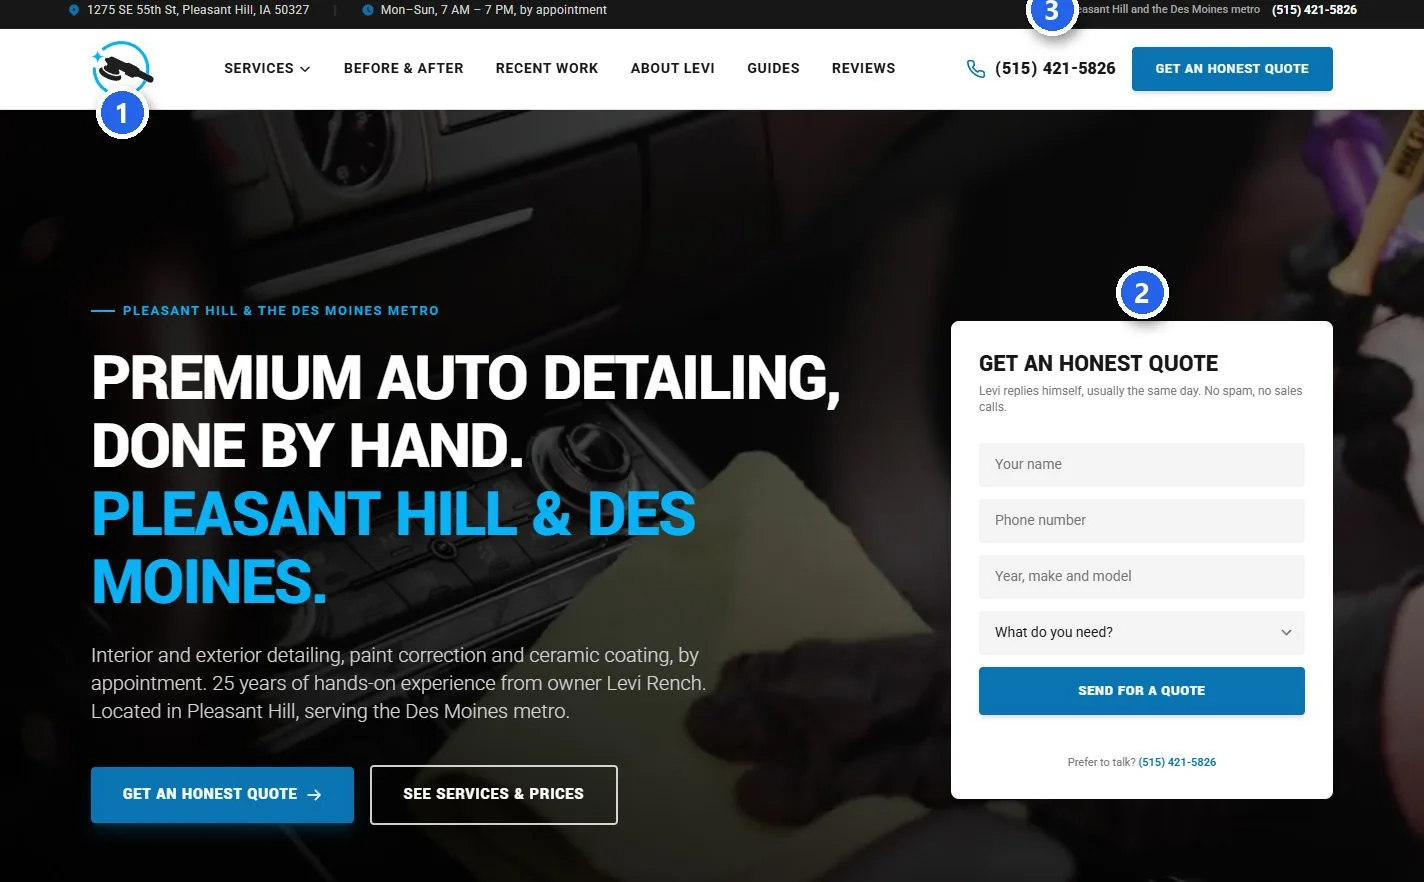
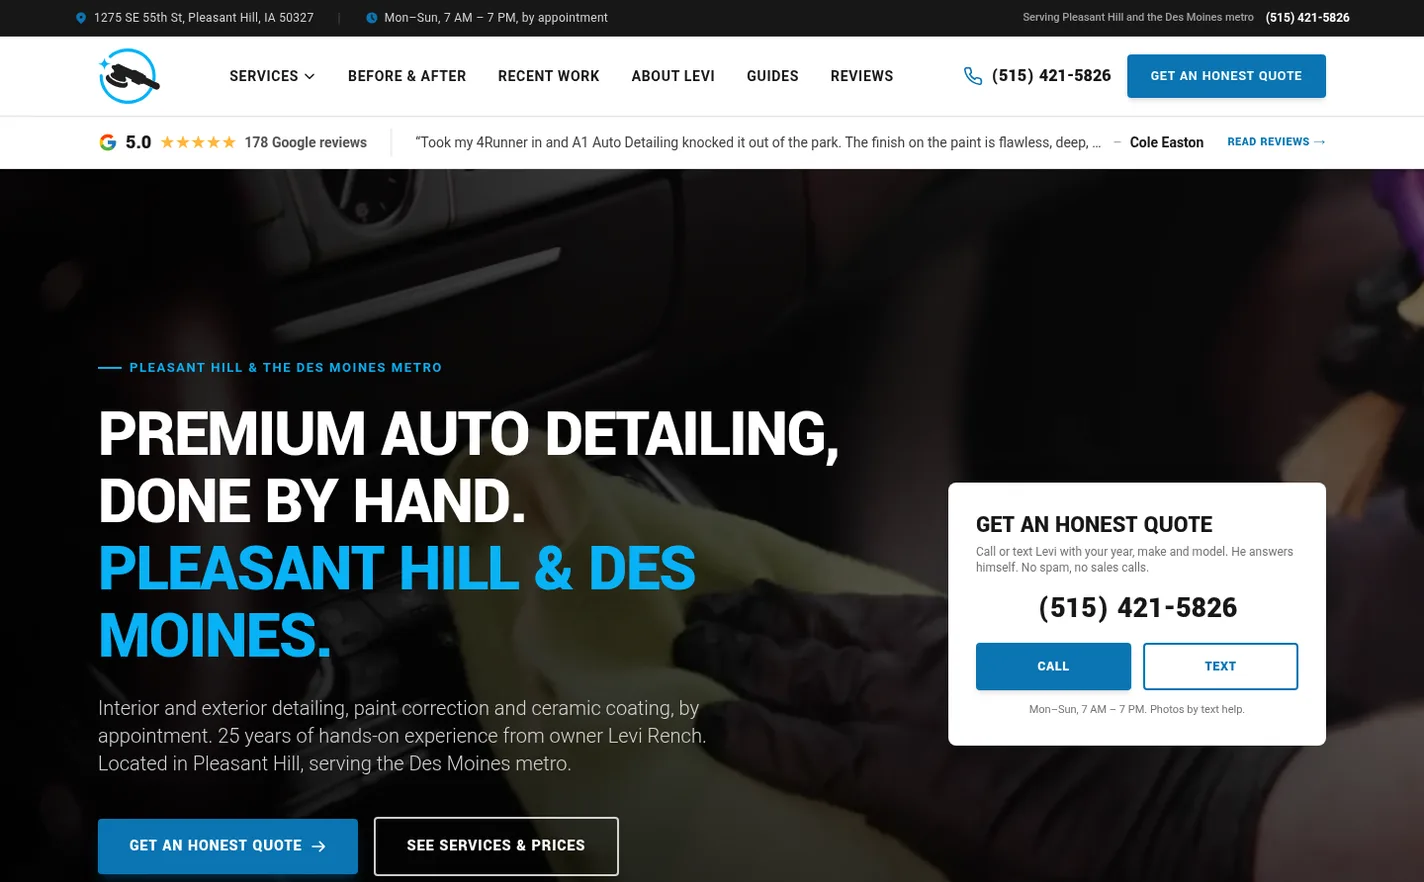
Give the A-1 case study room and use clean before/after shots
- Split the dense dark card into separate beats on the page background:
  before/after slider on its own, problem/fix in two short lines, three
  numbers on a divided row, Levi's quote with the CTA, then the strip.
- after-hero.webp is a fresh capture of the live A-1 homepage; the old-site
  shot has the numbered callouts removed (old logo restored from the clean
  logo comparison image), so neither image carries labels.

diff --git a/components/work/FeaturedWork.tsx b/components/work/FeaturedWork.tsx
@@ -2,7 +2,7 @@
 
 import { useState } from 'react';
 import Link from 'next/link';
-import { ArrowRight, ArrowUpRight, Quote } from 'lucide-react';
+import { ArrowRight, ArrowUpRight } from 'lucide-react';
 import { WORK_PROJECTS } from '@/data/workProjects';
 import { LEVI_QUOTE } from '@/components/common/ClientQuote';
 
@@ -12,22 +12,29 @@ import { LEVI_QUOTE } from '@/components/common/ClientQuote';
 // add a lift percentage or an unverified number here.
 const FEATURED_NAME = 'A-1 Auto Detailing';
 
-const A1_PROBLEM =
-  '25 years in business and a 5.0 Google rating from 178 reviews, but the old site hid nearly all of it. The logo was a tiny business card with a phone number printed on it, and a “Service Areas” menu led to dozens of copy-paste town pages Google ignores.';
-
-const A1_SOLUTION =
-  'We rebuilt it from the logo up: 18 pages with real service pages and guides, before-and-after sliders of customer cars, published starting prices, and a quote form right in the hero that Levi answers himself.';
+const A1_STORY = [
+  {
+    label: 'The problem',
+    tone: 'text-rose-600',
+    text: '178 five-star reviews, buried. A business-card logo. Dozens of copy-paste town pages Google ignored.',
+  },
+  {
+    label: 'What we built',
+    tone: 'text-blue-600',
+    text: 'A custom 18-page site with real service pages, before-and-after photos, and a quote form right up top.',
+  },
+];
 
 const A1_RESULTS = [
-  { value: '178', unit: 'five-star reviews', label: 'now shown where customers decide, at a 5.0 rating' },
-  { value: '~56', unit: 'old URLs', label: '301-redirected, so no search traffic was lost' },
-  { value: '0.3–0.8s', unit: 'page loads', label: 'measured on the finished site, so phone visitors don’t bounce' },
+  { value: '178', label: 'five-star reviews now front and center' },
+  { value: '~56', label: 'old URLs redirected, no search traffic lost' },
+  { value: '0.3–0.8s', label: 'page loads on phones' },
 ];
 
 function BeforeAfter() {
   const [pos, setPos] = useState(50);
   return (
-    <div className="relative aspect-[1424/882] w-full overflow-hidden rounded-[18px] sm:rounded-[22px] bg-neutral-900 select-none">
+    <div className="relative aspect-[1424/882] w-full overflow-hidden rounded-[20px] sm:rounded-[28px] bg-neutral-900 shadow-2xl shadow-neutral-900/15 ring-1 ring-neutral-200 select-none">
       {/* eslint-disable-next-line @next/next/no-img-element */}
       <img
         src="/images/case-studies/a1/after-hero.webp"
@@ -45,14 +52,14 @@ function BeforeAfter() {
         style={{ clipPath: `inset(0 ${100 - pos}% 0 0)` }}
         className="absolute inset-0 w-full h-full object-cover"
       />
-      <span className="absolute top-3 left-3 px-2.5 py-1 rounded-full bg-neutral-950/80 text-white text-[11px] font-bold tracking-wider uppercase">
-        Old site
+      <span className="absolute bottom-3 left-3 sm:bottom-5 sm:left-5 px-3 py-1.5 rounded-full bg-neutral-950/85 text-white text-[11px] sm:text-xs font-bold tracking-wider uppercase">
+        Before
       </span>
-      <span className="absolute top-3 right-3 px-2.5 py-1 rounded-full bg-blue-600 text-white text-[11px] font-bold tracking-wider uppercase">
-        Our rebuild
+      <span className="absolute bottom-3 right-3 sm:bottom-5 sm:right-5 px-3 py-1.5 rounded-full bg-blue-600 text-white text-[11px] sm:text-xs font-bold tracking-wider uppercase">
+        After
       </span>
       <div aria-hidden="true" className="absolute inset-y-0 w-0.5 bg-white pointer-events-none" style={{ left: `${pos}%` }}>
-        <span className="absolute top-1/2 left-1/2 -translate-x-1/2 -translate-y-1/2 w-10 h-10 rounded-full bg-white shadow-lg flex items-center justify-center text-neutral-900 text-sm font-bold">
+        <span className="absolute top-1/2 left-1/2 -translate-x-1/2 -translate-y-1/2 w-11 h-11 rounded-full bg-white shadow-lg flex items-center justify-center text-neutral-900 text-sm font-bold">
           ⇆
         </span>
       </div>
@@ -71,113 +78,88 @@ function BeforeAfter() {
 }
 
 /**
- * Homepage proof section. Shows the work as a client outcome (story, owner,
- * facts) instead of a gallery of homepages, then the rest of the portfolio as
- * a compact strip.
+ * Homepage proof section, one beat at a time: the before/after, the story in
+ * two lines, three numbers, the owner's words with the CTA, then the rest of
+ * the portfolio as a compact strip.
  */
 export function FeaturedWork() {
-  const featured = WORK_PROJECTS.find((p) => p.name === FEATURED_NAME);
   const more = WORK_PROJECTS.filter((p) => p.name !== FEATURED_NAME).slice(0, 5);
 
   return (
     <section
       aria-labelledby="featured-work-heading"
       data-track-location="featured_work"
-      className="w-full py-20 sm:py-28 px-4 sm:px-8 lg:px-14 xl:px-20"
+      className="w-full py-24 sm:py-32 px-4 sm:px-8 lg:px-14 xl:px-20"
     >
-      <div className="w-full max-w-[1400px] mx-auto">
-        <div className="flex flex-col lg:flex-row lg:items-end justify-between gap-5 mb-10 sm:mb-12">
-          <div className="max-w-3xl">
-            <p className="text-xs sm:text-sm font-bold tracking-[0.22em] text-[#2563eb] uppercase mb-3">Client Results</p>
-            <h2
-              id="featured-work-heading"
-              className="text-3xl sm:text-5xl lg:text-6xl font-extrabold font-display tracking-tight text-neutral-950 leading-[1.08]"
-            >
-              Real Iowa Business. Real Rebuild.
-            </h2>
-          </div>
-          <p className="max-w-md text-base sm:text-lg text-neutral-600 leading-relaxed">
-            We measure a website by the calls and quote requests it brings in, not by how it looks in a portfolio.
+      <div className="w-full max-w-[1180px] mx-auto">
+        {/* 1. Header */}
+        <div className="text-center max-w-2xl mx-auto">
+          <p className="text-xs sm:text-sm font-bold tracking-[0.22em] text-[#2563eb] uppercase">Client Results</p>
+          <h2
+            id="featured-work-heading"
+            className="mt-4 text-3xl sm:text-5xl lg:text-6xl font-extrabold font-display tracking-tight text-neutral-950 leading-[1.08] text-balance"
+          >
+            A-1 Auto Detailing, Rebuilt
+          </h2>
+          <p className="mt-5 text-base sm:text-lg text-neutral-600 leading-relaxed">
+            25 years in Pleasant Hill, and a website that finally shows it.
           </p>
         </div>
 
-        {/* Case study card */}
-        <article className="rounded-[28px] sm:rounded-[36px] bg-neutral-950 text-white overflow-hidden">
-          <header className="flex flex-wrap items-center justify-between gap-4 px-6 sm:px-10 pt-7 sm:pt-9">
-            <div className="flex items-center gap-4">
-              <span className="w-12 h-12 sm:w-14 sm:h-14 rounded-2xl bg-white flex items-center justify-center shrink-0">
-                {/* eslint-disable-next-line @next/next/no-img-element */}
-                <img src="/logos/iowa/a1-auto-detailing.png" alt="" className="w-9 h-9 sm:w-10 sm:h-10 object-contain" />
-              </span>
-              <div>
-                <h3 className="text-xl sm:text-2xl font-bold font-display tracking-tight">A-1 Auto Detailing</h3>
-                <p className="text-sm text-neutral-400">
-                  Pleasant Hill, Iowa · Website rebuild{featured ? ` · ${featured.date}` : ''}
-                </p>
-              </div>
-            </div>
-            <Link
-              href={LEVI_QUOTE.href}
-              className="inline-flex items-center gap-2 text-sm font-semibold text-blue-300 hover:text-white transition-colors"
-            >
-              Read the full case study <ArrowRight size={15} />
-            </Link>
-          </header>
+        {/* 2. The before/after, on its own */}
+        <div className="mt-12 sm:mt-16">
+          <BeforeAfter />
+          <p className="mt-4 text-center text-sm text-neutral-500">Drag to compare</p>
+        </div>
 
-          <div className="grid grid-cols-1 lg:grid-cols-12 gap-8 lg:gap-12 px-6 sm:px-10 pt-7 sm:pt-9">
-            <div className="lg:col-span-7">
-              <BeforeAfter />
-              <p className="mt-3 text-center text-xs text-neutral-500">Drag to compare the old site with our rebuild.</p>
+        {/* 3. The story, two short lines */}
+        <div className="mt-16 sm:mt-20 grid grid-cols-1 md:grid-cols-2 gap-10 md:gap-16 max-w-4xl mx-auto">
+          {A1_STORY.map((s) => (
+            <div key={s.label}>
+              <p className={`text-xs font-bold tracking-[0.18em] uppercase ${s.tone}`}>{s.label}</p>
+              <p className="mt-3 text-xl sm:text-2xl font-semibold text-neutral-900 leading-snug">{s.text}</p>
             </div>
-            <div className="lg:col-span-5 flex flex-col gap-7">
-              <div>
-                <p className="text-xs font-bold tracking-[0.18em] uppercase text-rose-300">The problem</p>
-                <p className="mt-2 text-[15px] sm:text-base text-neutral-300 leading-relaxed">{A1_PROBLEM}</p>
-              </div>
-              <div>
-                <p className="text-xs font-bold tracking-[0.18em] uppercase text-blue-300">What we built</p>
-                <p className="mt-2 text-[15px] sm:text-base text-neutral-300 leading-relaxed">{A1_SOLUTION}</p>
-              </div>
-              <figure className="rounded-2xl bg-white/[0.06] border border-white/10 p-5">
-                <Quote aria-hidden="true" className="h-5 w-5 text-blue-300" strokeWidth={2.4} />
-                <blockquote className="mt-2 text-lg sm:text-xl font-bold leading-snug">“{LEVI_QUOTE.text}”</blockquote>
-                <figcaption className="mt-2 text-sm text-neutral-400">
-                  {LEVI_QUOTE.name}, {LEVI_QUOTE.role}
-                </figcaption>
-              </figure>
-            </div>
-          </div>
+          ))}
+        </div>
 
-          <div className="px-6 sm:px-10 pt-9 pb-7 sm:pb-10">
-            <p className="text-xs font-bold tracking-[0.18em] uppercase text-emerald-300 mb-4">The results</p>
-            <div className="grid grid-cols-1 sm:grid-cols-3 gap-3 sm:gap-4">
-              {A1_RESULTS.map((r) => (
-                <div key={r.unit} className="rounded-2xl bg-white text-neutral-950 p-5 sm:p-6">
-                  <p className="font-display font-black tracking-tight text-3xl sm:text-4xl tabular-nums">
-                    {r.value} <span className="text-base sm:text-lg font-bold text-neutral-500">{r.unit}</span>
-                  </p>
-                  <p className="mt-1 text-sm text-neutral-600 leading-snug">{r.label}</p>
-                </div>
-              ))}
+        {/* 4. Three numbers */}
+        <div className="mt-16 sm:mt-20 grid grid-cols-1 sm:grid-cols-3 gap-10 sm:gap-0 sm:divide-x divide-neutral-200 border-y border-neutral-200 py-10 sm:py-12">
+          {A1_RESULTS.map((r) => (
+            <div key={r.value} className="text-center sm:px-6">
+              <p className="font-display font-black tracking-tight text-5xl sm:text-6xl text-neutral-950 tabular-nums">{r.value}</p>
+              <p className="mt-2 text-sm sm:text-base text-neutral-600">{r.label}</p>
             </div>
-            <div className="mt-8 flex flex-col sm:flex-row sm:items-center gap-3">
-              <Link
-                href="/get-started"
-                data-track="cta_click"
-                data-track-cta="work_case_study"
-                className="inline-flex items-center justify-center gap-2 px-7 py-4 rounded-full bg-blue-600 hover:bg-blue-700 text-white font-bold transition-colors shadow-lg shadow-blue-600/25"
-              >
-                Get results like this <ArrowUpRight size={16} />
-              </Link>
-              <p className="text-sm text-neutral-400 sm:ml-3">
-                Your free consultation includes a custom homepage mockup for your business.
-              </p>
-            </div>
-          </div>
-        </article>
+          ))}
+        </div>
 
-        {/* The rest of the portfolio, kept compact */}
-        <div className="mt-14 sm:mt-16">
+        {/* 5. The owner's words + the next step */}
+        <figure className="mt-16 sm:mt-20 text-center max-w-3xl mx-auto">
+          <blockquote className="text-2xl sm:text-4xl font-extrabold font-display tracking-tight text-neutral-950 leading-[1.2]">
+            “{LEVI_QUOTE.text}”
+          </blockquote>
+          <figcaption className="mt-5 text-sm sm:text-base text-neutral-500">
+            {LEVI_QUOTE.name}, {LEVI_QUOTE.role}
+          </figcaption>
+        </figure>
+        <div className="mt-10 flex flex-col sm:flex-row items-center justify-center gap-3 sm:gap-6">
+          <Link
+            href="/get-started"
+            data-track="cta_click"
+            data-track-cta="work_case_study"
+            className="inline-flex items-center justify-center gap-2 px-8 py-4 rounded-full bg-blue-600 hover:bg-blue-700 text-white font-bold transition-colors shadow-lg shadow-blue-600/25"
+          >
+            Get results like this <ArrowUpRight size={16} />
+          </Link>
+          <Link
+            href={LEVI_QUOTE.href}
+            className="inline-flex items-center gap-2 text-sm sm:text-base font-semibold text-neutral-700 hover:text-blue-600 transition-colors"
+          >
+            Read the full case study <ArrowRight size={16} />
+          </Link>
+        </div>
+
+        {/* 6. The rest of the portfolio, kept compact */}
+        <div className="mt-24 sm:mt-28">
           <div className="flex items-end justify-between gap-4 mb-6">
             <h3 className="text-xl sm:text-2xl font-extrabold font-display tracking-tight text-neutral-950">More sites we’ve built</h3>
             <Link href="/work" className="shrink-0 inline-flex items-center gap-1.5 text-sm font-semibold text-neutral-800 hover:text-blue-600 transition-colors">
